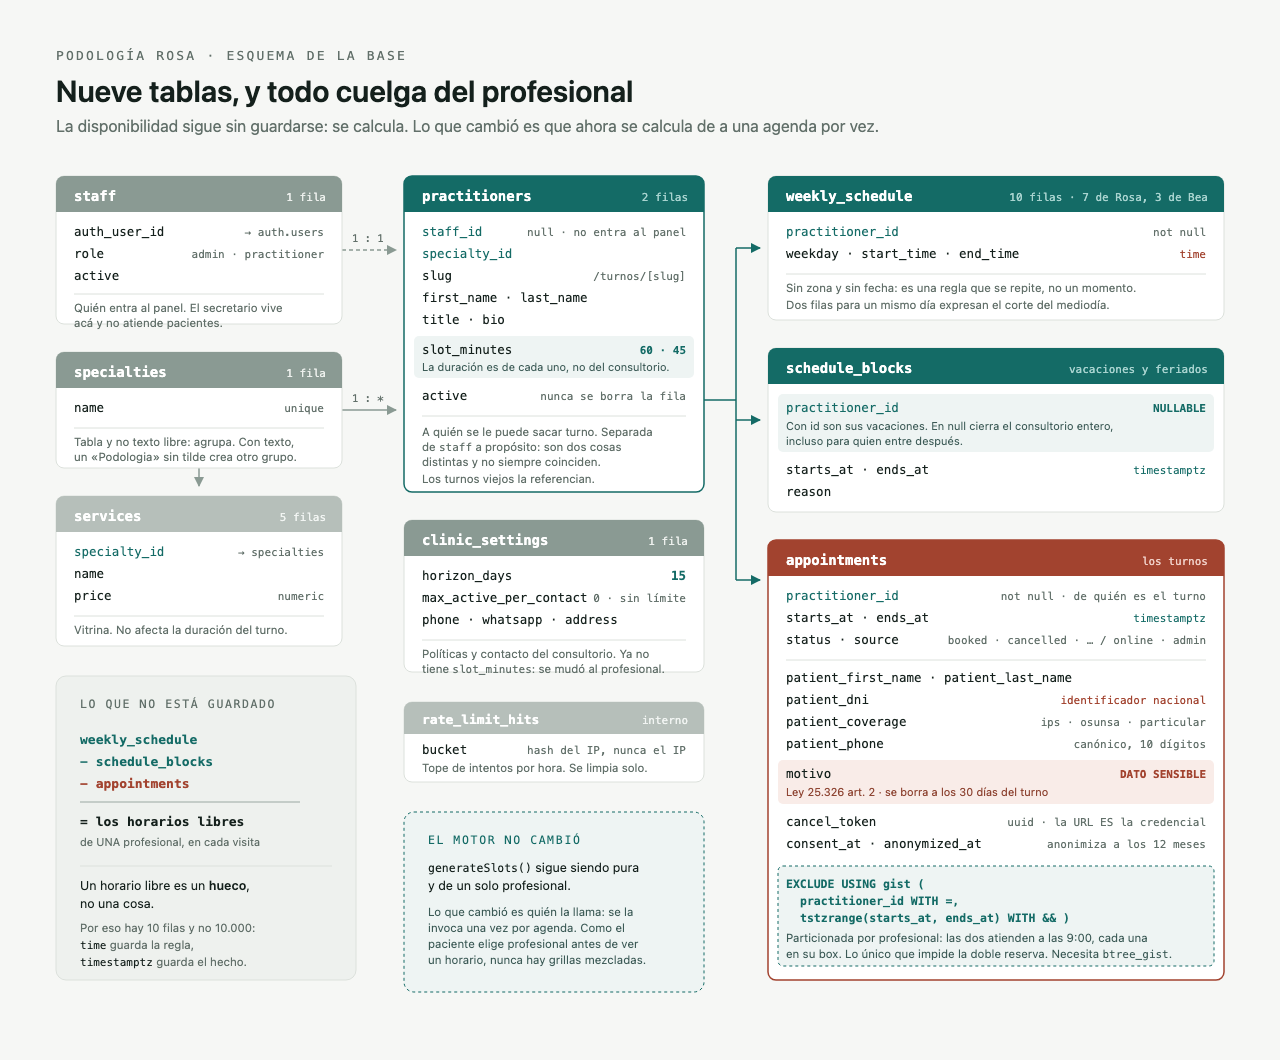
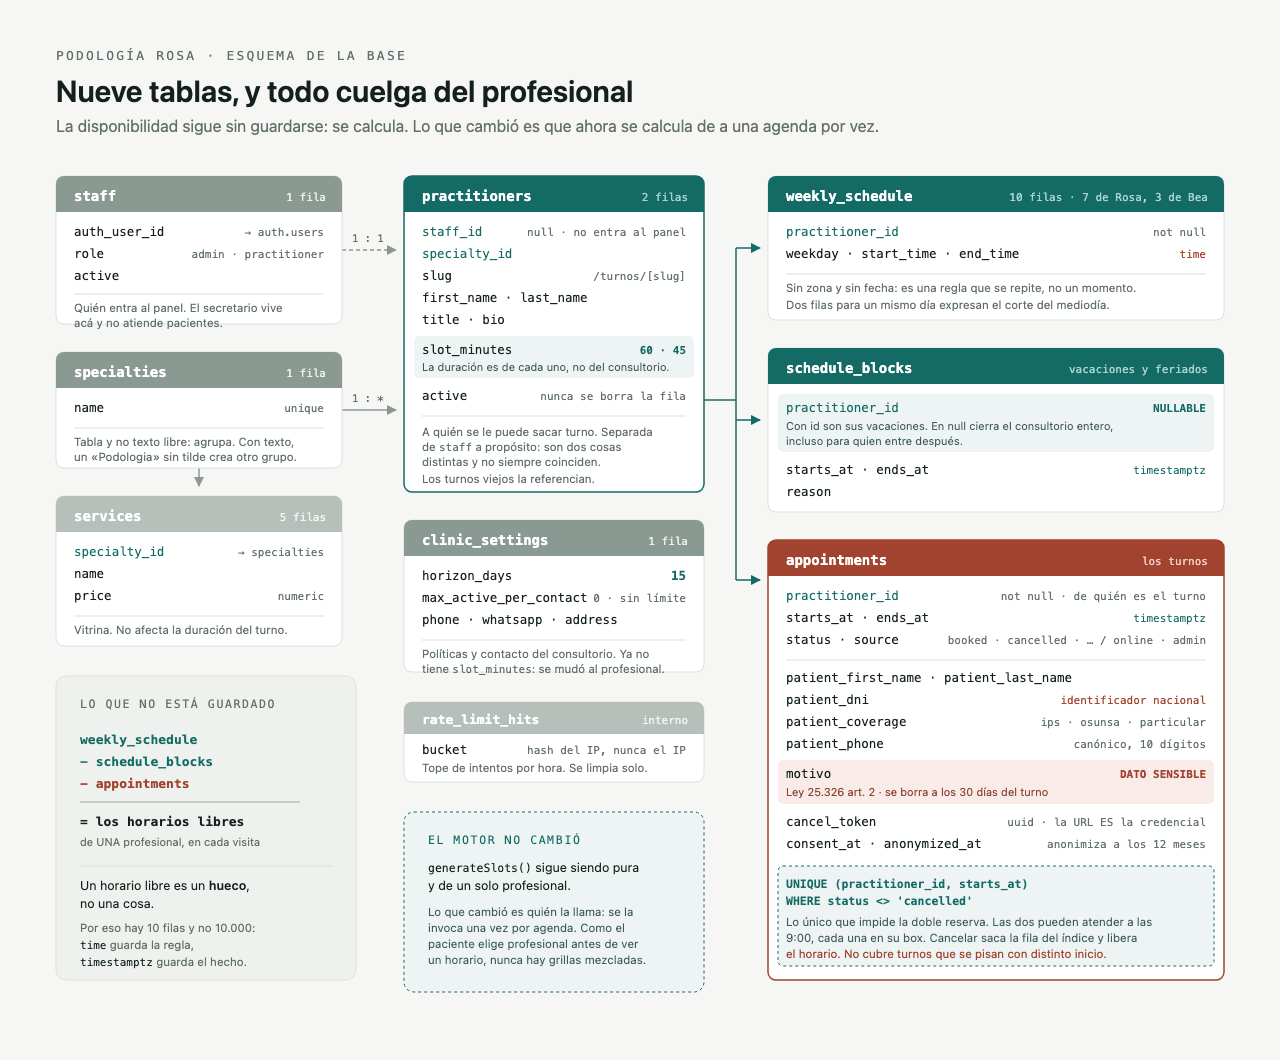
Volver al índice único en vez de la restricción de exclusión
Decisión tomada a conciencia: se cambia protección por familiaridad.

Lo que se sigue protegiendo, que es el caso frecuente: dos personas
tocando el mismo horario al mismo tiempo. Ocho inserts simultáneos sobre
el mismo turno siguen dejando entrar exactamente uno, y sigue sin haber
carrera entre leer y escribir.

Lo que se deja de proteger: turnos que se pisan sin empezar a la misma
hora. Rosa 11:00-12:00 más Rosa 11:15-12:00 ahora entran los dos, porque
para el índice son dos filas distintas.

Eso no es hipotético: pasó acá cuando la duración cambió de 45 a 60
minutos y los turnos ya reservados quedaron fuera de la grilla nueva. El
disparador sigue existiendo y ahora en más lugares, porque cada
profesional tiene su propia duración y se edita desde el panel. La
migración lo deja escrito para quien vaya a buscar la causa el día que
haya dos pacientes esperando el mismo box.

`btree_gist` queda instalada aunque ya no la use nadie: sacarla no vale
el riesgo, y si se vuelve atrás ya está puesta.

Changed region(s): [[0.625, 0.8094, 0.9062, 0.9028]]

diff --git a/docs/esquema.html b/docs/esquema.html
@@ -252,11 +252,11 @@
     <text x="1206" y="848" font-family="'IBM Plex Mono', monospace" font-size="11" fill="#62706a" text-anchor="end">anonimiza a los 12 meses</text>
 
     <rect x="778" y="866" width="436" height="100" rx="5" fill="#eef4f3" stroke="#146b66" stroke-dasharray="3 3"/>
-    <text x="786" y="888" font-family="'IBM Plex Mono', monospace" font-size="11.5" font-weight="600" fill="#146b66">EXCLUDE USING gist (</text>
-    <text x="800" y="905" font-family="'IBM Plex Mono', monospace" font-size="11.5" font-weight="600" fill="#146b66">practitioner_id WITH =,</text>
-    <text x="800" y="922" font-family="'IBM Plex Mono', monospace" font-size="11.5" font-weight="600" fill="#146b66">tstzrange(starts_at, ends_at) WITH &amp;&amp; )</text>
-    <text x="786" y="942" font-size="11.5" fill="#3d5b57">Particionada por profesional: las dos atienden a las 9:00, cada una</text>
-    <text x="786" y="958" font-size="11.5" fill="#3d5b57">en su box. Lo único que impide la doble reserva. Necesita <tspan font-family="'IBM Plex Mono', monospace" font-size="11">btree_gist</tspan>.</text>
+    <text x="786" y="888" font-family="'IBM Plex Mono', monospace" font-size="11.5" font-weight="600" fill="#146b66">UNIQUE (practitioner_id, starts_at)</text>
+    <text x="786" y="905" font-family="'IBM Plex Mono', monospace" font-size="11.5" font-weight="600" fill="#146b66">WHERE status &lt;&gt; 'cancelled'</text>
+    <text x="786" y="926" font-size="11.5" fill="#3d5b57">Lo único que impide la doble reserva. Las dos pueden atender a las</text>
+    <text x="786" y="942" font-size="11.5" fill="#3d5b57">9:00, cada una en su box. Cancelar saca la fila del índice y libera</text>
+    <text x="786" y="958" font-size="11.5" fill="#a2432f">el horario. No cubre turnos que se pisan con distinto inicio.</text>
   </g>
 
   <!-- ══════════ banda de cálculo ══════════ -->

diff --git a/src/lib/booking.ts b/src/lib/booking.ts
@@ -8,11 +8,11 @@ import { createSupabaseAdminClient } from "@/lib/supabase/admin";
 /**
  * How a double-booking surfaces from Postgres.
  *
- * `23P01` is the exclusion constraint rejecting an overlap — the normal case.
- * Desde 0006 la restricción está particionada por profesional: sólo choca con
- * los turnos de la misma persona, no con los de su colega en el otro box.
- * `23505` is kept because older databases may still carry the unique index on
- * `starts_at` that migration 0003 replaces.
+ * `23505` es el caso normal: el índice único de 0008 rechaza un segundo turno
+ * con la misma hora de inicio para la misma profesional. `23P01` se queda
+ * porque es lo que devolvería la restricción de exclusión de 0003/0006 si
+ * alguna vez se vuelve a ella — y porque una base que todavía no corrió 0008
+ * la tiene puesta.
  */
 const OVERLAP_CODES = ["23P01", "23505"];
 

diff --git a/src/lib/slots.ts b/src/lib/slots.ts
@@ -210,8 +210,12 @@ export function generateSlots({
         if (start >= cutoff) continue;
 
         // Half-open overlap: touching at the boundary is not a clash, so a turno
-        // ending at 12:00 leaves 12:00 free. Mirrors the exclusion constraint in
-        // the database, which compares the same ranges.
+        // ending at 12:00 leaves 12:00 free.
+        //
+        // Acá sí se comparan rangos. La base, desde 0008, sólo compara la hora
+        // de inicio: este motor es más estricto que la restricción que lo
+        // respalda, y por eso es el que evita ofrecer un horario que se pise
+        // con un turno que quedó fuera de la grilla.
         const clash = busy.some((range) => start < range.end && end > range.start);
         if (clash) continue;
 
